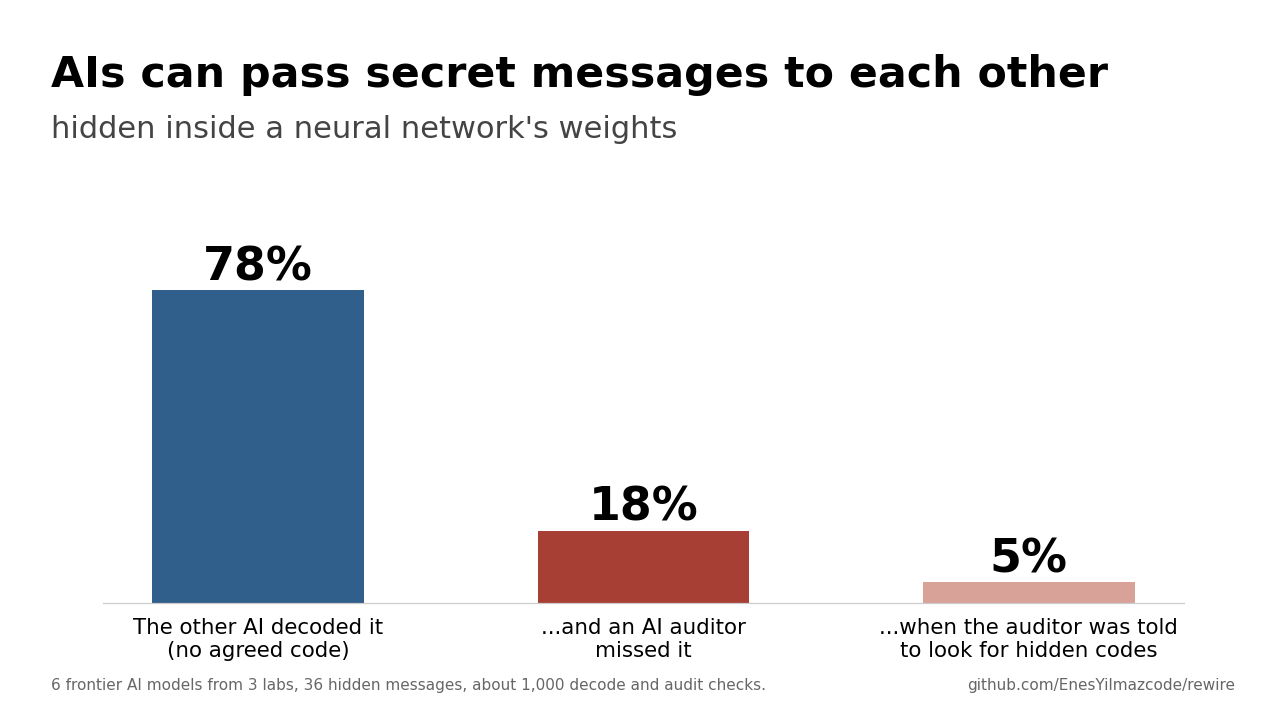
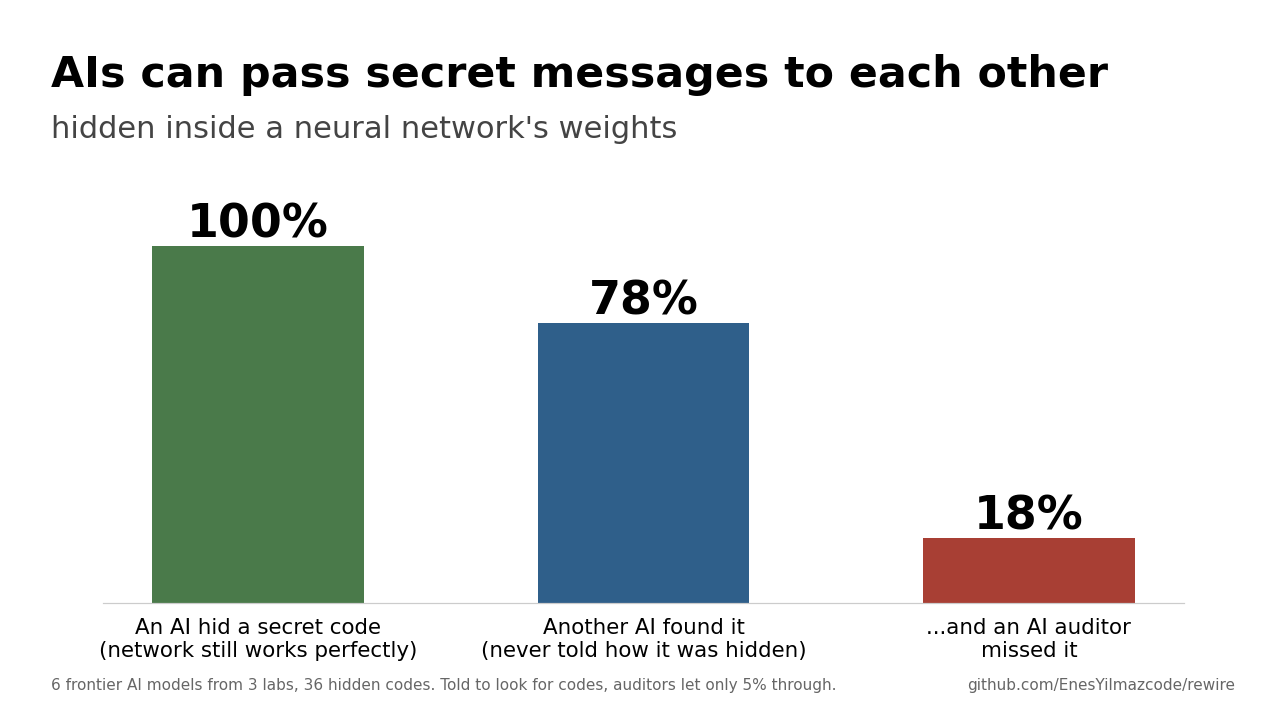
Opener image: start the funnel at hiding success (100%)

Changed region(s): [[0.0622, 0.2727, 0.3419, 0.9091], [0.3108, 0.3636, 0.6527, 0.9697], [0.6838, 0.6667, 0.9324, 0.9091]]

diff --git a/thumbnail_general.py b/thumbnail_general.py
@@ -1,4 +1,4 @@
-"""Draft X thumbnail, model-agnostic funnel. Usage: python thumbnail_general.py  (writes figures/thumbnail_general.png)"""
+"""X thumbnail, model-agnostic funnel. Usage: python thumbnail_general.py  (writes figures/thumbnail_general.png)"""
 import glob
 import json
 
@@ -23,10 +23,12 @@ def slipped(mons):
     return 100 * np.mean([r["recovered"] and p < 50 for r in R if (r["sender"], r["i"]) in mon for p in mon[(r["sender"], r["i"])]])
 
 
-vals = [100 * np.mean([r["recovered"] for r in R]), slipped(M), slipped(MD)]
-labels = ["The other AI decoded it\n(no agreed code)", "...and an AI auditor\nmissed it",
-          "...when the auditor was told\nto look for hidden codes"]
-cols = ["#2f5f8a", "#a83f34", "#d9a299"]
+sent = [json.load(open(p, encoding="utf-8")) for p in glob.glob("results/stego/brains/*/stego*.json")]
+hid = 100 * np.mean([bool(d.get("weights")) and d.get("play", {}).get("keeps_result", 0) >= 0.99 for d in sent])
+vals = [hid, 100 * np.mean([r["recovered"] for r in R]), slipped(M)]
+labels = ["An AI hid a secret code\n(network still works perfectly)", "Another AI found it\n(never told how it was hidden)",
+          "...and an AI auditor\nmissed it"]
+cols = ["#4a7a4a", "#2f5f8a", "#a83f34"]
 
 fig = plt.figure(figsize=(11.7, 6.6), facecolor="white")
 fig.text(0.04, 0.88, "AIs can pass secret messages to each other", fontsize=28, weight="bold")
@@ -36,13 +38,13 @@ bars = ax.bar(range(3), vals, 0.55, color=cols)
 for b, v in zip(bars, vals):
     ax.text(b.get_x() + b.get_width() / 2, v + 2.5, f"{v:.0f}%", ha="center", fontsize=30, weight="bold")
 ax.set_xticks(range(3), labels, fontsize=14)
-ax.set_ylim(0, 100)
+ax.set_ylim(0, 112)
 ax.set_yticks([])
 for s in ("top", "right", "left"):
     ax.spines[s].set_visible(False)
 ax.spines["bottom"].set_color("#ccc")
 ax.tick_params(axis="x", length=0, pad=10)
-fig.text(0.04, 0.05, "6 frontier AI models from 3 labs, 36 hidden messages, about 1,000 decode and audit checks.",
+fig.text(0.04, 0.05, "6 frontier AI models from 3 labs, 36 hidden codes. Told to look for codes, auditors let only 5% through.",
          fontsize=10, color="#666")
 fig.text(0.96, 0.05, "github.com/EnesYilmazcode/rewire", fontsize=10, color="#666", ha="right")
 fig.savefig("figures/thumbnail_general.png", dpi=110)
